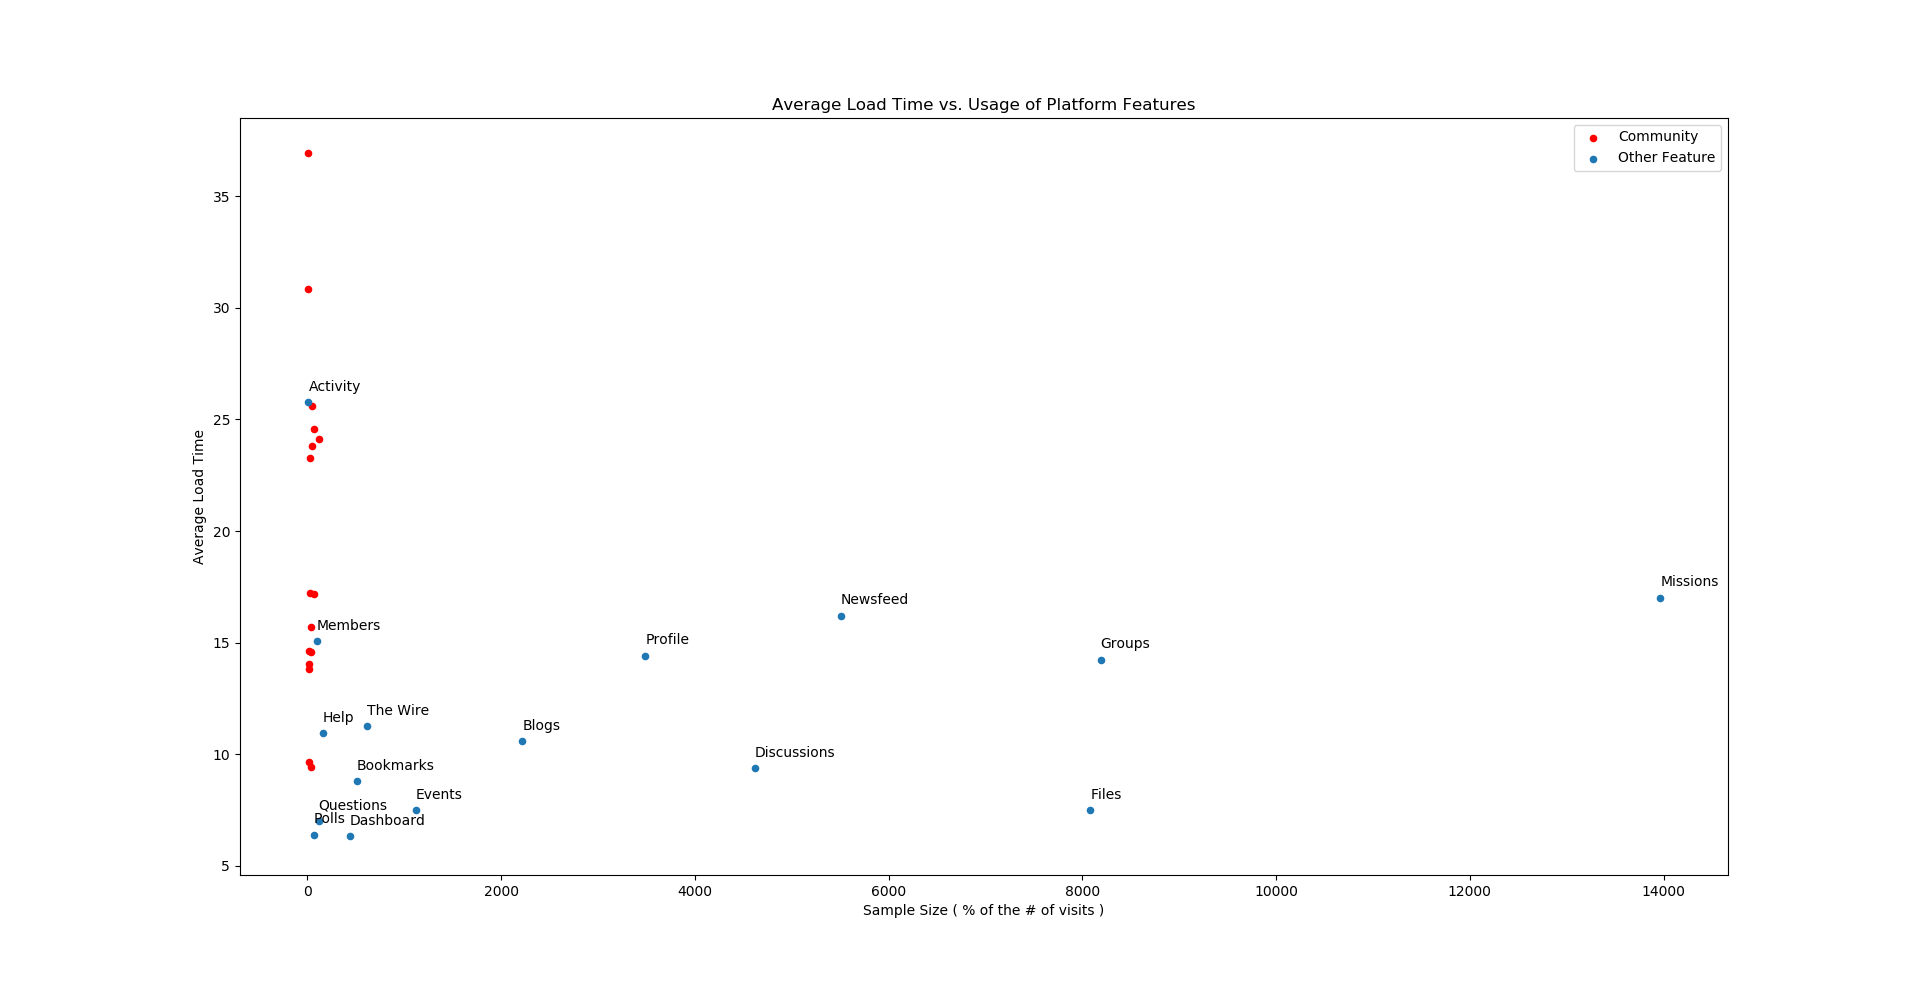
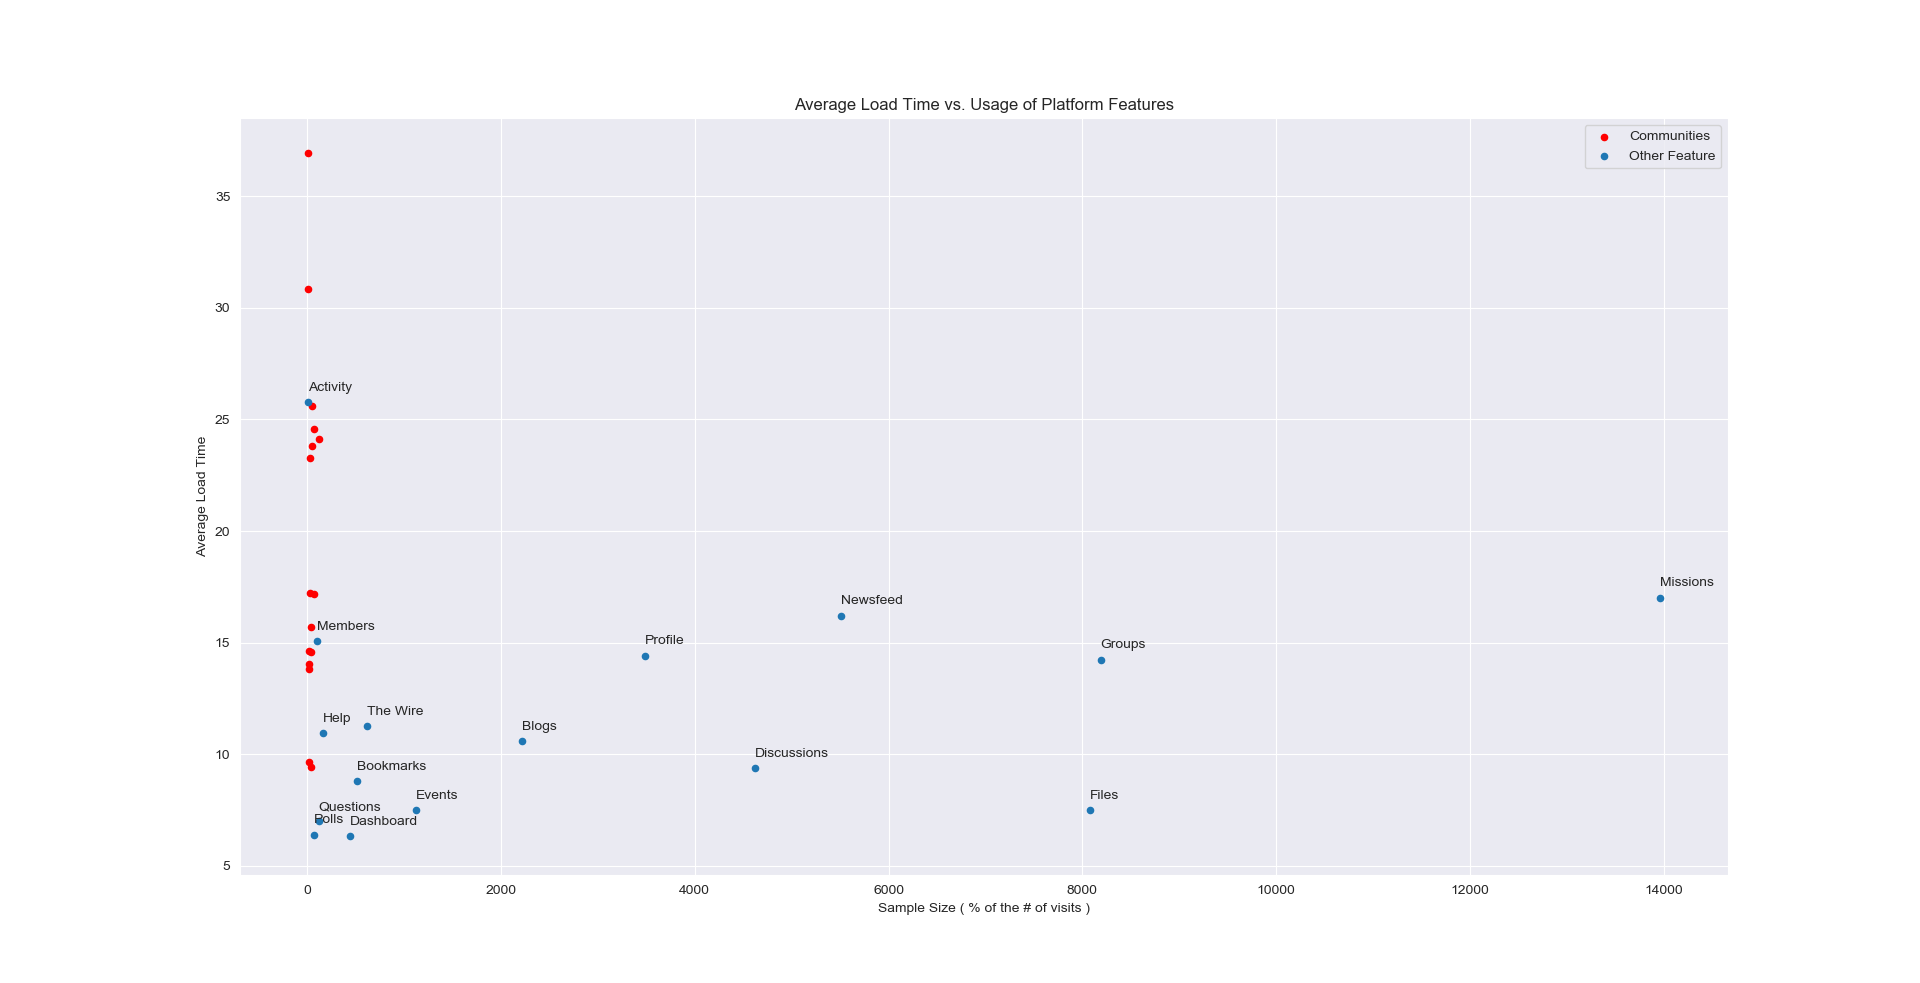
Adding misc files

diff --git a/viz.py b/viz.py
@@ -2,6 +2,8 @@ import pandas as pd
 import matplotlib.pyplot as plt
 import seaborn as sns
 
+sns.set_style("darkgrid")
+
 df = pd.read_csv("load_data.csv")
 
 # core
@@ -54,7 +56,7 @@ communities = [
   ["Policy", len(df_policy["ga:pageLoadTime"]),  df_policy["ga:pageLoadTime"].mean()],
   ["Procurement", len(df_procurement["ga:pageLoadTime"]),  df_procurement["ga:pageLoadTime"].mean()],
   ["Real Property", len(df_real_property["ga:pageLoadTime"]),  df_real_property["ga:pageLoadTime"].mean()],
-  ["Regulatord", len(df_regulators["ga:pageLoadTime"]),  df_regulators["ga:pageLoadTime"].mean()],
+  ["Regulators", len(df_regulators["ga:pageLoadTime"]),  df_regulators["ga:pageLoadTime"].mean()],
   ["Science and Technology", len(df_science["ga:pageLoadTime"]),  df_science["ga:pageLoadTime"].mean()],
   ["Security", len(df_security["ga:pageLoadTime"]),  df_security["ga:pageLoadTime"].mean()],
   ["Service", len(df_service["ga:pageLoadTime"]),  df_service["ga:pageLoadTime"].mean()]
@@ -85,8 +87,9 @@ df_communities = pd.DataFrame(communities)
 df_communities.columns = ["name",  "sample_size",  "mean"]
 df_communities["mean"] = df_communities["mean"]/1000 # convert to seconds
 
-df_communities.plot.scatter(x="sample_size", y="mean", style=".",  label="Community", ax=ax, color="red")
+df_communities.plot.scatter(x="sample_size", y="mean", style=".",  label="Communities", ax=ax, color="red")
 # add labels to scatter plot dots
+
 '''
 for i, community in enumerate(df_communities["name"]):
     ax.annotate(community, (df_communities["sample_size"][i], df_communities["mean"][i] + 0.5))

diff --git a/distribution_viz.py b/distribution_viz.py
@@ -1,0 +1,26 @@
+import pandas as pd
+import matplotlib.pyplot as plt
+import seaborn as sns
+
+sns.set_style("darkgrid")
+
+df = pd.read_csv("load_data.csv")
+
+df_missions = df[df["ga:pagePathLevel1"].str.contains("/missions")]
+
+df_missions["ga:pageLoadTime"] = df_missions["ga:pageLoadTime"]/1000
+
+#df_missions.plot(style=".")
+
+fig, ax = plt.subplots()
+
+sns.distplot(df_missions["ga:pageLoadTime"], color="m", ax=ax, kde=False)
+
+plt.ylabel("# of loads in a certain interval (bin)")
+plt.xlabel("Load Time in Seconds")
+
+ax.set_xlim(0, 150)
+
+plt.title("GCconnex Career Marketplace load time distribution (n= "+ str(len(df_missions)) +")")
+
+plt.show()

diff --git a/ga-input-cleaning/clean_urls.py b/ga-input-cleaning/clean_urls.py
@@ -1,0 +1,17 @@
+import pandas as pd
+
+df = pd.read_csv("data/pedia_1.csv")
+
+cleaned_urls = []
+
+for url in df["urls"]:
+    cleaned_urls.append(url[24:])
+
+regex_string = ""
+
+for i, url in enumerate(cleaned_urls):
+    regex_string += url
+    if i < (len(cleaned_urls) -1):
+        regex_string += "|"
+
+print(regex_string)

diff --git a/example.py b/example.py
@@ -1,0 +1,2 @@
+def create_dimensions_array(*dimension_args):
+    dimensions = [{"name": dimension} in dimension_args]

diff --git a/gcga_v2.py b/gcga_v2.py
@@ -33,6 +33,7 @@ class gcga_v2:
         ).execute()
     
     def create_dataframe(report):
+        
 
 
 
